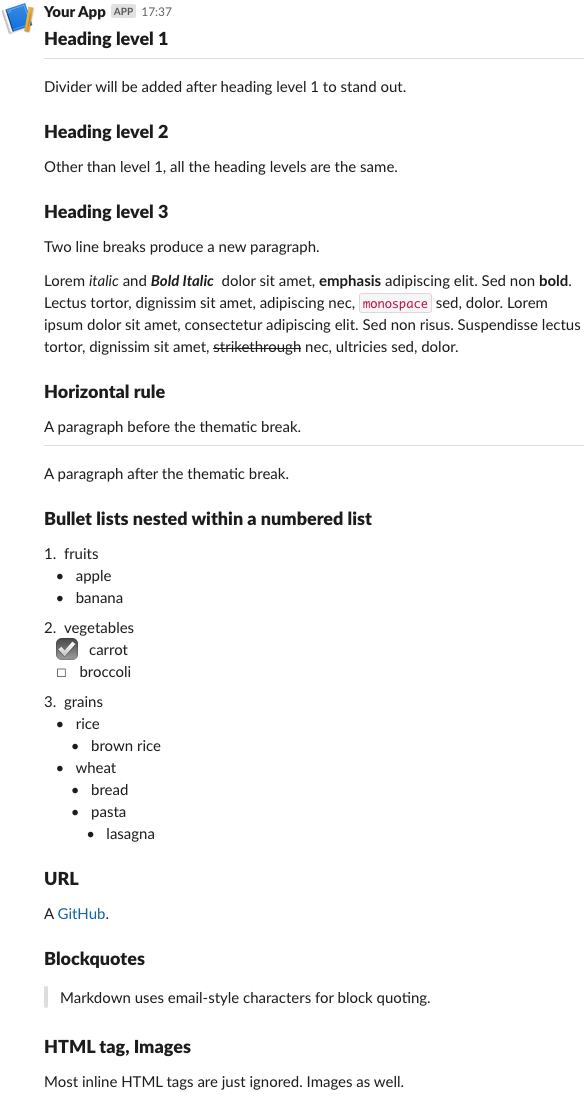
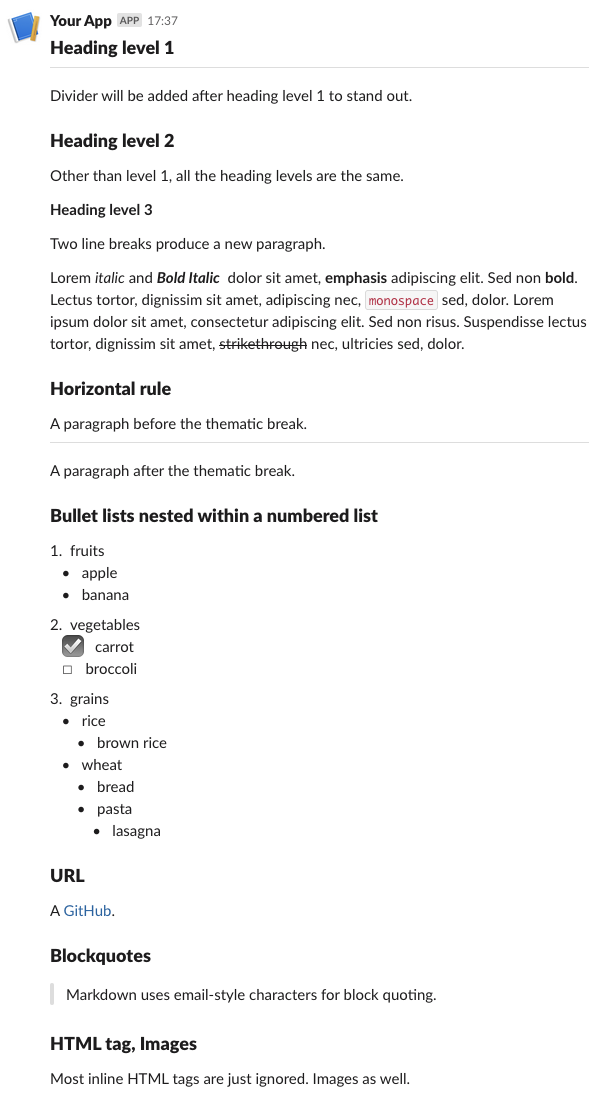
fix: change h3 style from "header" to "bold"

Changed region(s): [[0.0, 0.0, 0.9863, 0.7755], [0.0616, 0.7755, 0.7397, 0.9927]]

diff --git a/src/lib.rs b/src/lib.rs
@@ -75,7 +75,7 @@ mod test {
         test!(
             headings,
             "# Heading 1\n## Heading 2\n### Heading 3",
-            r#"{ "blocks": [ { "text": { "emoji": true, "text": "Heading 1", "type": "plain_text" }, "type": "header" }, { "type": "divider" }, { "text": { "emoji": true, "text": "Heading 2", "type": "plain_text" }, "type": "header" }, { "text": { "emoji": true, "text": "Heading 3", "type": "plain_text" }, "type": "header" } ] }"#
+            r#"{ "blocks": [ { "text": { "emoji": true, "text": "Heading 1", "type": "plain_text" }, "type": "header" }, { "type": "divider" }, { "text": { "emoji": true, "text": "Heading 2", "type": "plain_text" }, "type": "header" }, { "text": { "text": "*Heading 3*", "type": "mrkdwn" }, "type": "section" } ] }"#
         );
         test!(
             link,
@@ -140,7 +140,7 @@ console.log('Hello, mrkdwn!')
 
 Another paragraph.
 "#,
-            r#"{ "blocks": [{"text":{"emoji":true,"text":"Heading 1","type":"plain_text"},"type":"header"},{"type":"divider"},{"text":{"emoji":true,"text":"Heading 2","type":"plain_text"},"type":"header"},{"text":{"emoji":true,"text":"Heading 3","type":"plain_text"},"type":"header"},{"text":{"text":"Hello, ~Markdown~ *mrkdwn*! and _markdown_.\n","type":"mrkdwn"},"type":"section"},{"text":{"text":"`mrkdwn` is text formatting markup style in <https://slack.com/|Slack>.\n","type":"mrkdwn"},"type":"section"},{"type":"divider"},{"text":{"text":"•   First\n    •   Second\n        •   Third\n    •   Fourth\n        •   Fifth\n        •   Sixth\n\n•   Seventh\n\n","type":"mrkdwn"},"type":"section"},{"text":{"text":"1.  Ordered list 1\n    •   Ordered list 1-1\n        •   Ordered list 1-2\n\n2.  Ordered list 2\n    1.  Ordered list 2-1\n    2.  Ordered list 2-2\n\n3.  Ordered list 3\n\n","type":"mrkdwn"},"type":"section"},{"text":{"text":"> _This is blockquote._\n","type":"mrkdwn"},"type":"section"},{"text":{"text":"```\nconsole.log('Hello, mrkdwn!')\n```\n","type":"mrkdwn"},"type":"section"},{"text":{"text":"Another paragraph.\n","type":"mrkdwn"},"type":"section"}] }"#
+            r#"{ "blocks": [ { "text": { "emoji": true, "text": "Heading 1", "type": "plain_text" }, "type": "header" }, { "type": "divider" }, { "text": { "emoji": true, "text": "Heading 2", "type": "plain_text" }, "type": "header" }, { "text": { "text": "*Heading 3*", "type": "mrkdwn" }, "type": "section" }, { "text": { "text": "Hello, ~Markdown~ *mrkdwn*! and _markdown_.\n", "type": "mrkdwn" }, "type": "section" }, { "text": { "text": "`mrkdwn` is text formatting markup style in <https://slack.com/|Slack>.\n", "type": "mrkdwn" }, "type": "section" }, { "type": "divider" }, { "text": { "text": "•   First\n    •   Second\n        •   Third\n    •   Fourth\n        •   Fifth\n        •   Sixth\n\n•   Seventh\n\n", "type": "mrkdwn" }, "type": "section" }, { "text": { "text": "1.  Ordered list 1\n    •   Ordered list 1-1\n        •   Ordered list 1-2\n\n2.  Ordered list 2\n    1.  Ordered list 2-1\n    2.  Ordered list 2-2\n\n3.  Ordered list 3\n\n", "type": "mrkdwn" }, "type": "section" }, { "text": { "text": "> _This is blockquote._\n", "type": "mrkdwn" }, "type": "section" }, { "text": { "text": "```\nconsole.log('Hello, mrkdwn!')\n```\n", "type": "mrkdwn" }, "type": "section" }, { "text": { "text": "Another paragraph.\n", "type": "mrkdwn" }, "type": "section" } ] }"#
         );
     }
 

diff --git a/src/mrkdwn.rs b/src/mrkdwn.rs
@@ -161,7 +161,8 @@ impl<'a> Mrkdwn<'a> {
                 Emphasis(n) => vec![Section(self.surround_nodes_with(&n.children, "_", "_"))],
                 Heading(n) => match n.depth {
                     1 => vec![Header(self.transform_to_mrkdwn(&n.children)), Divider],
-                    _ => vec![Header(self.transform_to_mrkdwn(&n.children))],
+                    2 => vec![Header(self.transform_to_mrkdwn(&n.children))],
+                    _ => vec![Section(self.surround_nodes_with(&n.children, "*", "*"))],
                 },
                 InlineCode(n) => vec![Section(Self::surround_with(&n.value, "`", "`"))],
                 Link(n) => {
